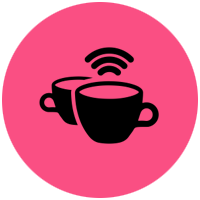
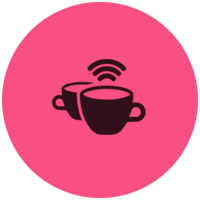
map icones update

Changed region(s): [[0.18, 0.21, 0.81, 0.72]]

diff --git a/app/controllers/workplaces_controller.rb b/app/controllers/workplaces_controller.rb
@@ -18,7 +18,7 @@ class WorkplacesController < ApplicationController
       marker.lat workplace.latitude
       marker.lng workplace.longitude
       marker.picture({
-        url: ActionController::Base.helpers.asset_path("icone_#{workplace.category}.png"),
+        url: ActionController::Base.helpers.asset_path("map_i_#{workplace.category}.png"),
         width:  45,
         height: 55
       })
